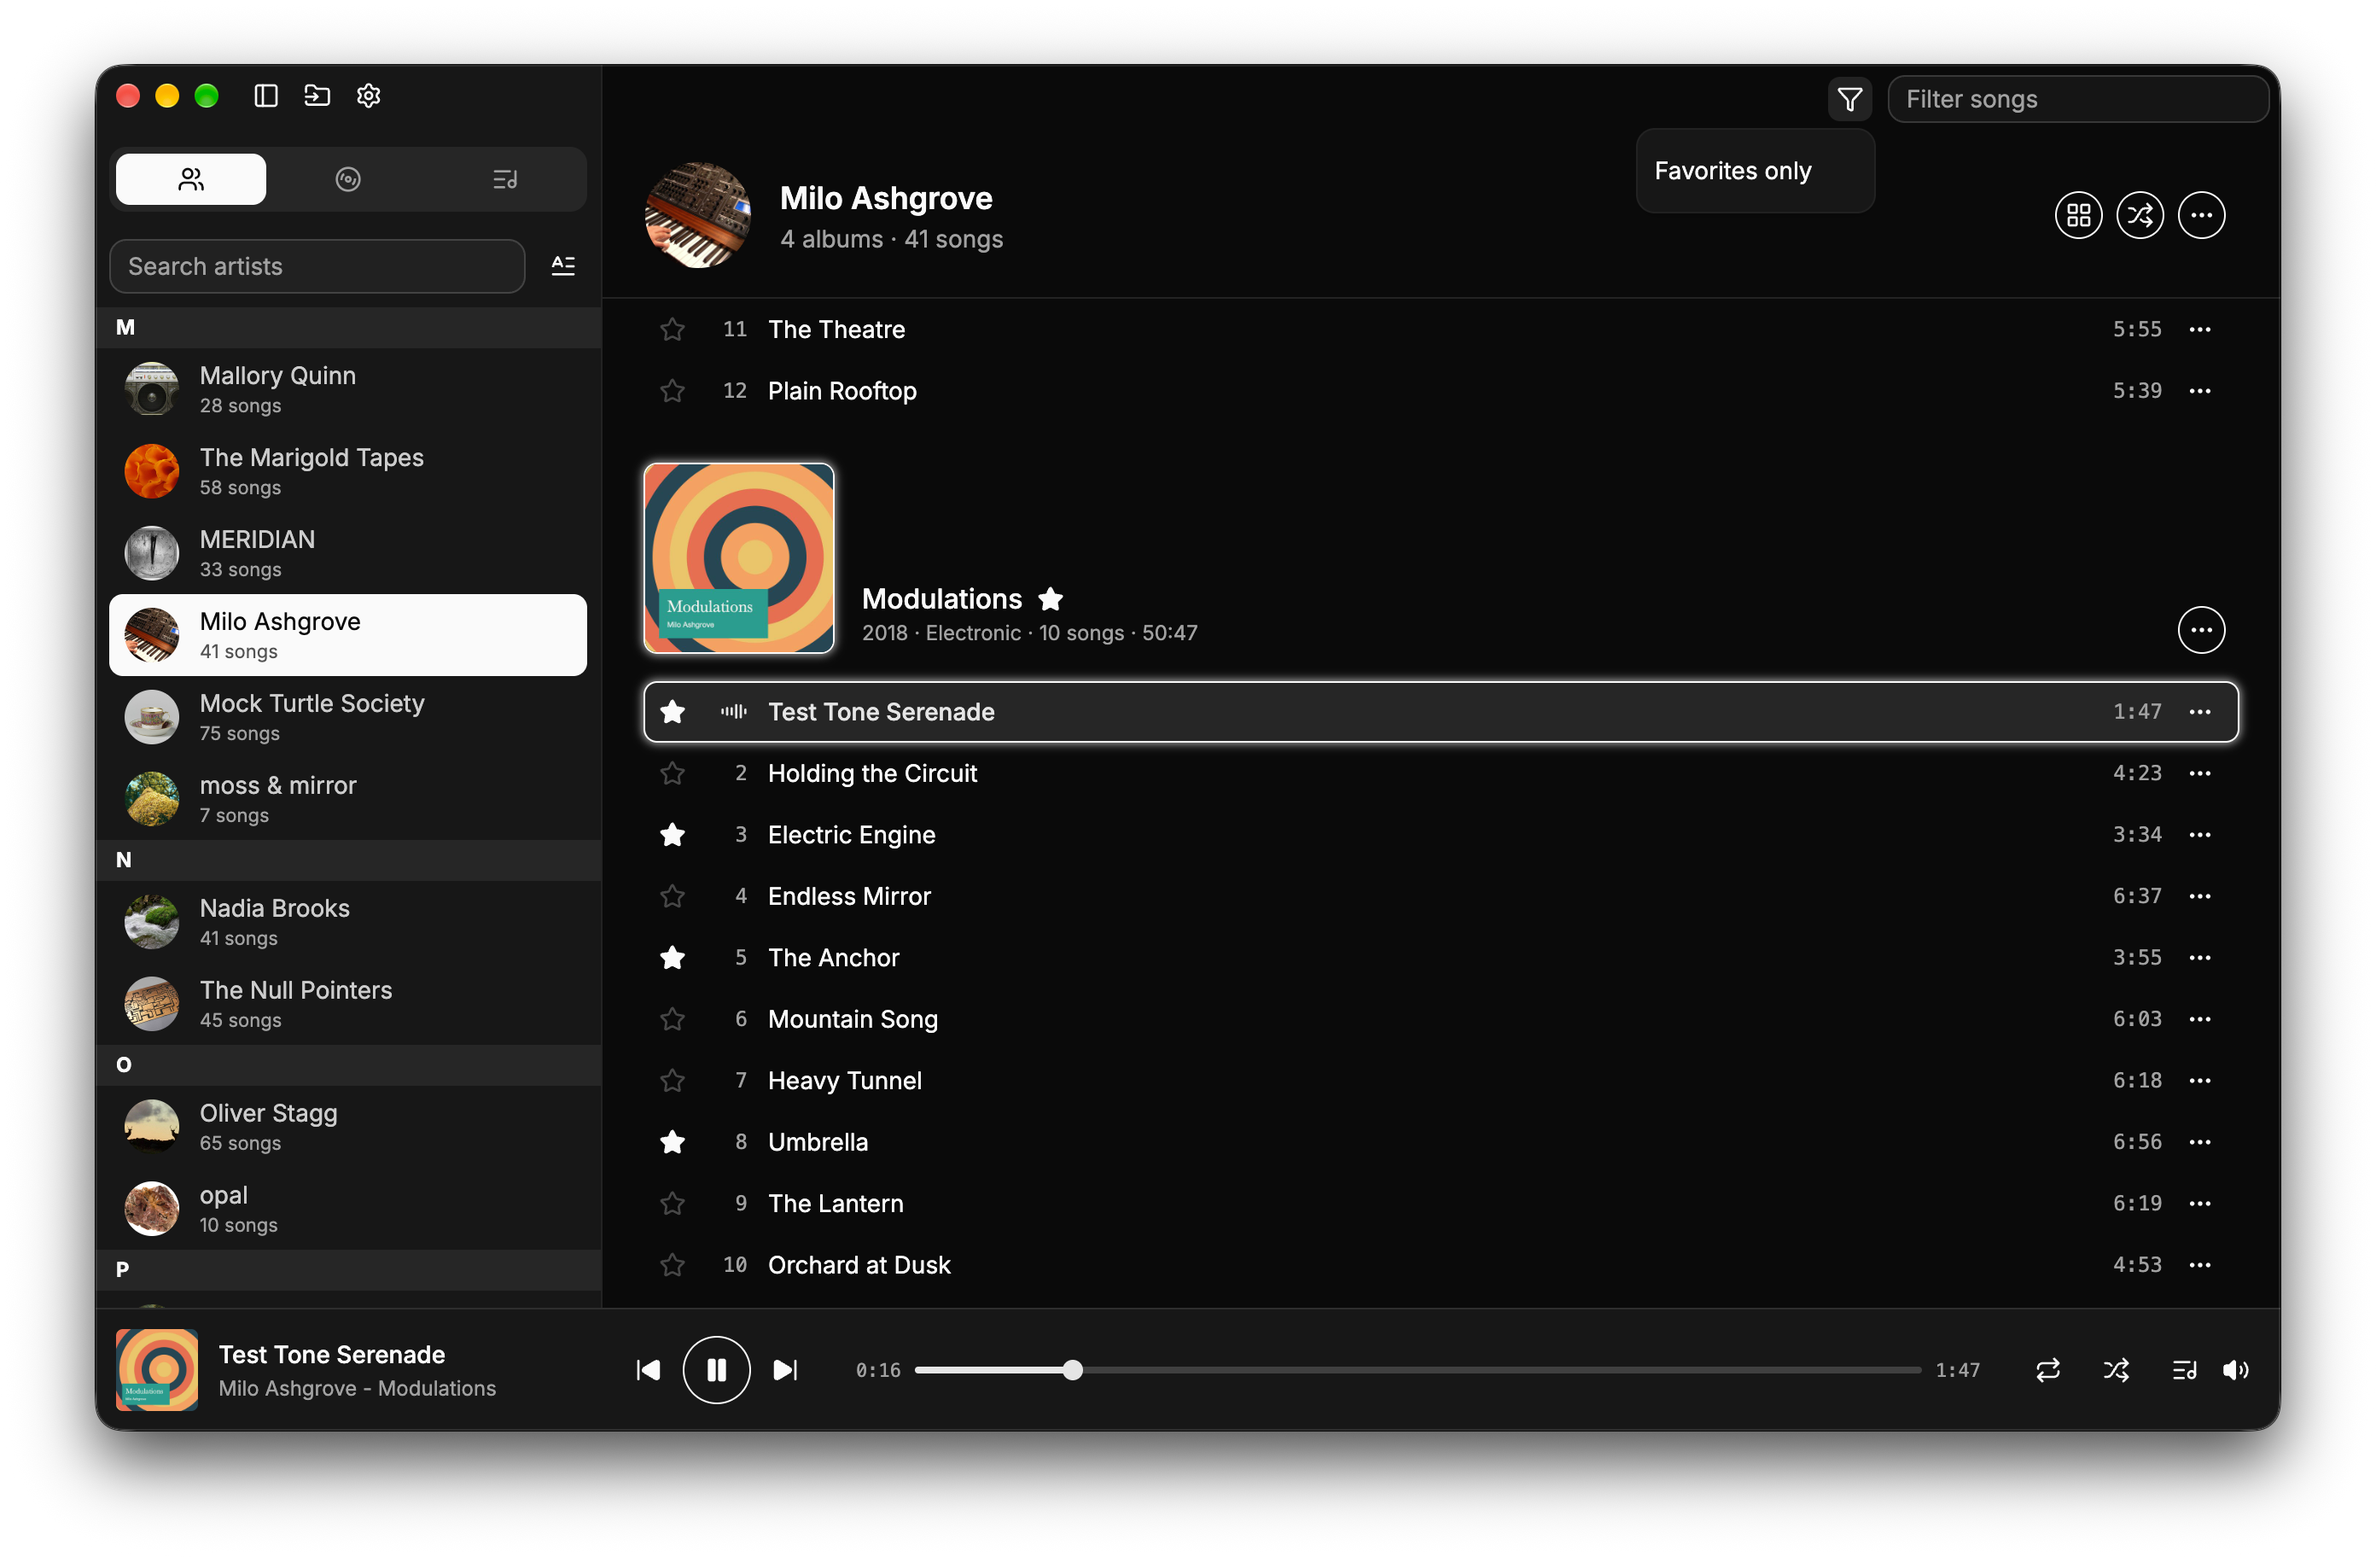
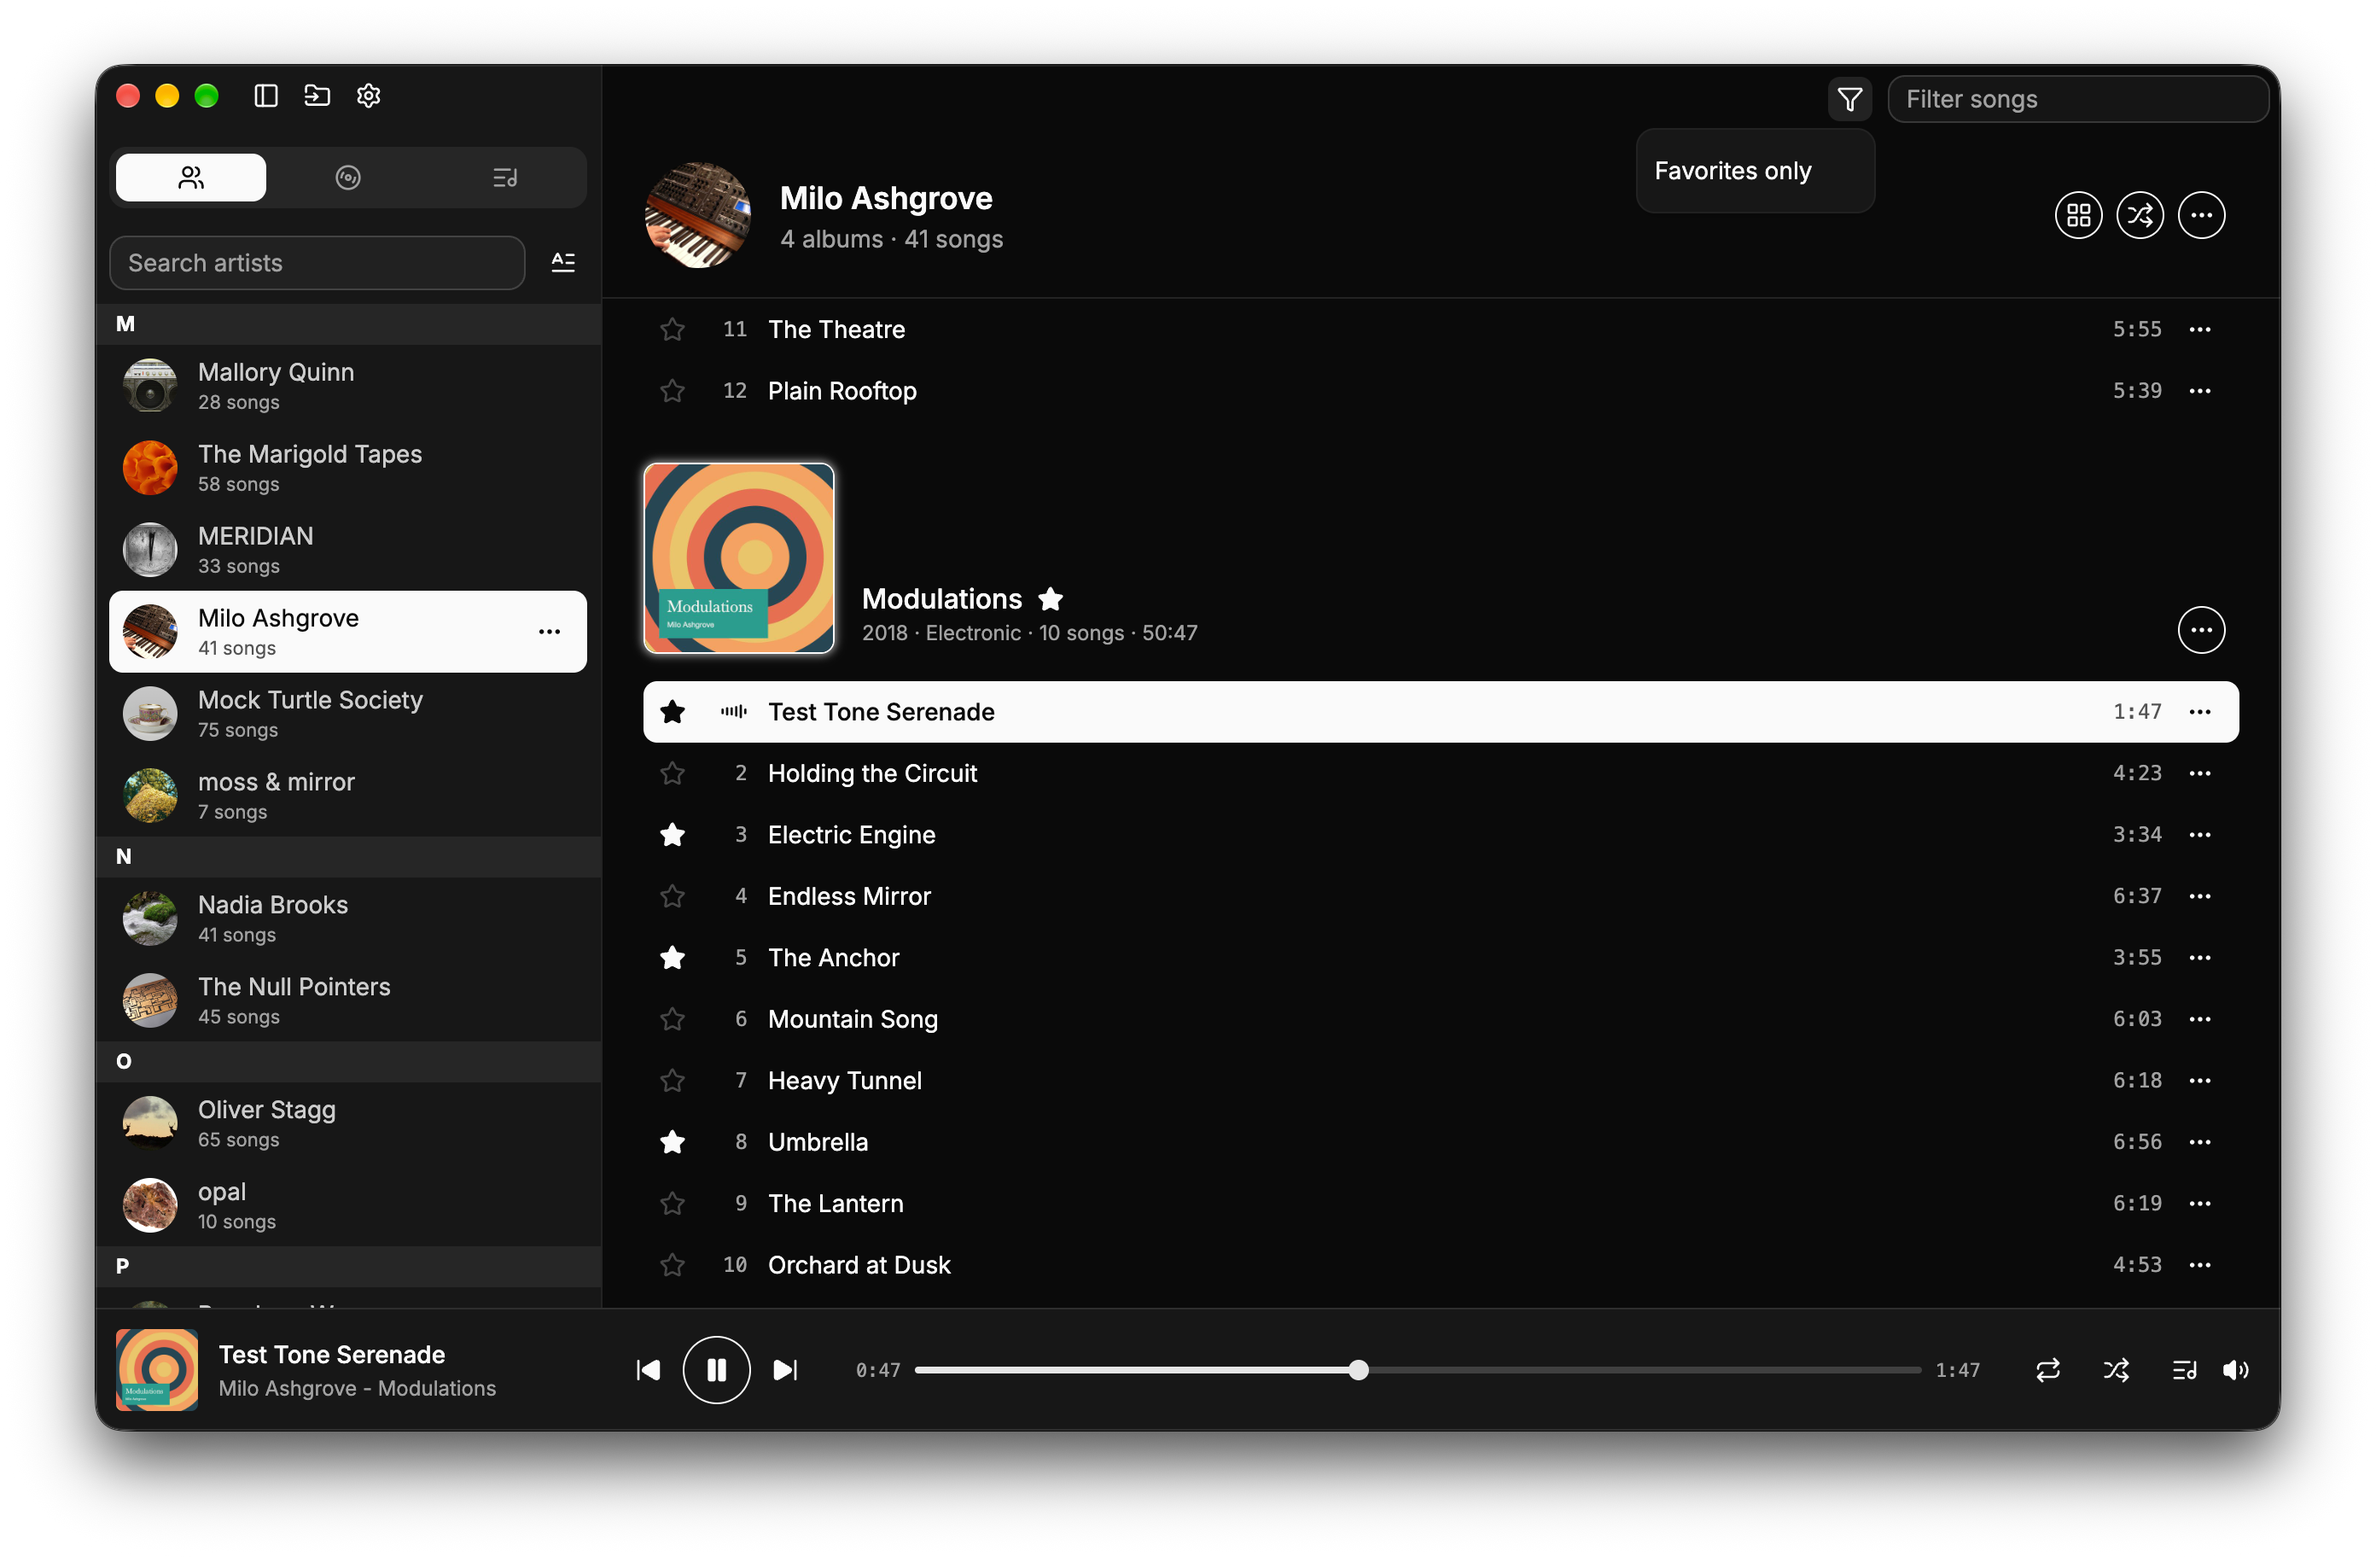
feat: [Phase 5] 公式サイトのプレイリストの説明に画像を足し、サイドバーが写るスクリーンショットを撮り直す
- home.feature.playlists.body (en / ja) に画像の一文を足す
- playlists / artists / artists-light / favorites / player / music-info を v1.6 の見た目 (サイドバーの画像とメニュー ボタン、再生中の行の塗り) で撮り直す
- player の切り出し位置を 12px 上げて再生中の行の上端に余白を取る
- top-page.md の要点に画像 (v1.6) を足し、screenshots.md の playlists にサイドバーの画像とデモ用データの割り当てを書く

diff --git a/web/src/i18n/ja.ts b/web/src/i18n/ja.ts
@@ -37,7 +37,7 @@ export const ja: Dictionary = {
     "サイドバーでジャンル Jazz と 1990 年代に絞り込み、ジャケットをグリッド表示した Albums ビュー",
   "home.feature.playlists.title": "プレイリストとスマート プレイリスト",
   "home.feature.playlists.body":
-    "手で並べる通常のプレイリストと、条件で自動的に更新されるスマート プレイリストを使えます。曲のテーブルは表示するカラムを選び、幅と並び順を変え、好きなカラムでソートできます。",
+    "手で並べる通常のプレイリストと、条件で自動的に更新されるスマート プレイリストを使えます。それぞれに画像を付けられ、曲のテーブルは表示するカラムを選び、幅と並び順を変え、好きなカラムでソートできます。",
   "home.feature.playlists.alt":
     "プレイリスト My Best を、お気に入り、タイトル、アーティスト、アルバム、アルバム アーティスト、ジャンル、年のカラムでテーブル表示した Playlists ビュー",
   "home.feature.favorites.title": "お気に入りを手元に",

diff --git a/web/src/i18n/en.ts b/web/src/i18n/en.ts
@@ -39,7 +39,7 @@ export const en = {
     "Albums view with the sidebar filtering by the Jazz genre and the 1990s, showing a grid of album covers",
   "home.feature.playlists.title": "Playlists and smart playlists",
   "home.feature.playlists.body":
-    "Arrange songs by hand in a regular playlist, or let a smart playlist keep itself up to date from your conditions. The song table lets you choose the columns, resize and reorder them, and sort by any of them.",
+    "Arrange songs by hand in a regular playlist, or let a smart playlist keep itself up to date from your conditions. Give each one a picture, and shape the song table with the columns you want: choose, resize, reorder and sort them.",
   "home.feature.playlists.alt":
     "Playlists view showing the My Best playlist as a table with the favorite, title, artist, album, album artist, genre and year columns",
   "home.feature.favorites.title": "Keep your favorites close",

diff --git a/docs/specs/web/features/top-page.md b/docs/specs/web/features/top-page.md
@@ -16,13 +16,13 @@
 
 ### 2. 主な機能
 
-機能ごとに「見出し、2 - 3 文の説明、スクリーンショット」を横並び (デスクトップ) / 縦並び (モバイル) で交互に配置します。項目は現在のバージョン (v1.4) の機能から選びます。
+機能ごとに「見出し、2 - 3 文の説明、スクリーンショット」を横並び (デスクトップ) / 縦並び (モバイル) で交互に配置します。項目は現在のバージョン (v1.6) の機能から選びます。
 
 | 機能 | 説明の要点 | スクリーンショット |
 | --- | --- | --- |
 | Browse by artist | 頭文字のグリッドからアーティストを選び、アルバムと曲を眺めながら再生する。アーティスト画像とアートワークを活かした一覧 | `artists` |
 | Filter your albums | ジャンル、年代、テキストでアルバムを絞り込むサイドバー。ジャケットを並べて眺められる | `albums` |
-| Playlists and smart playlists | 手で並べる通常のプレイリストと、条件で自動更新されるスマート プレイリスト。カラムの表示、幅、並び順、ソートを変えられるテーブル (v1.3) | `playlists` |
+| Playlists and smart playlists | 手で並べる通常のプレイリストと、条件で自動更新されるスマート プレイリスト。プレイリストに画像を付けられる (v1.6)。カラムの表示、幅、並び順、ソートを変えられるテーブル (v1.3) | `playlists` |
 | Keep your favorites close | 曲とアルバムに Star を付け、どのビューでもひと目で分かる。フィルター メニューの「お気に入りのみ表示」でお気に入りだけに絞り込める (v1.4) | `favorites` |
 | Edit and complete metadata | 曲情報ダイアログでタイトル、アーティスト、アートワークなどを編集し、ファイルへ書き戻す (v1.1)。複数の曲をまとめて編集できる。MusicBrainz から不足している情報とアートワークを取得して補完する (v1.2) | `music-info` |
 | Play your way | 再生キュー、シャッフル、リピート (アルバム全体と 1 曲。v1.5)、OS のメディア キー対応 (MediaSession)。対応形式: mp3, flac, m4a/mp4, ogg/opus, wav, aiff, wma, ape | `player` (プレーヤー バーとキュー ポップオーバー。リピートを `all` にして点灯した状態) |
